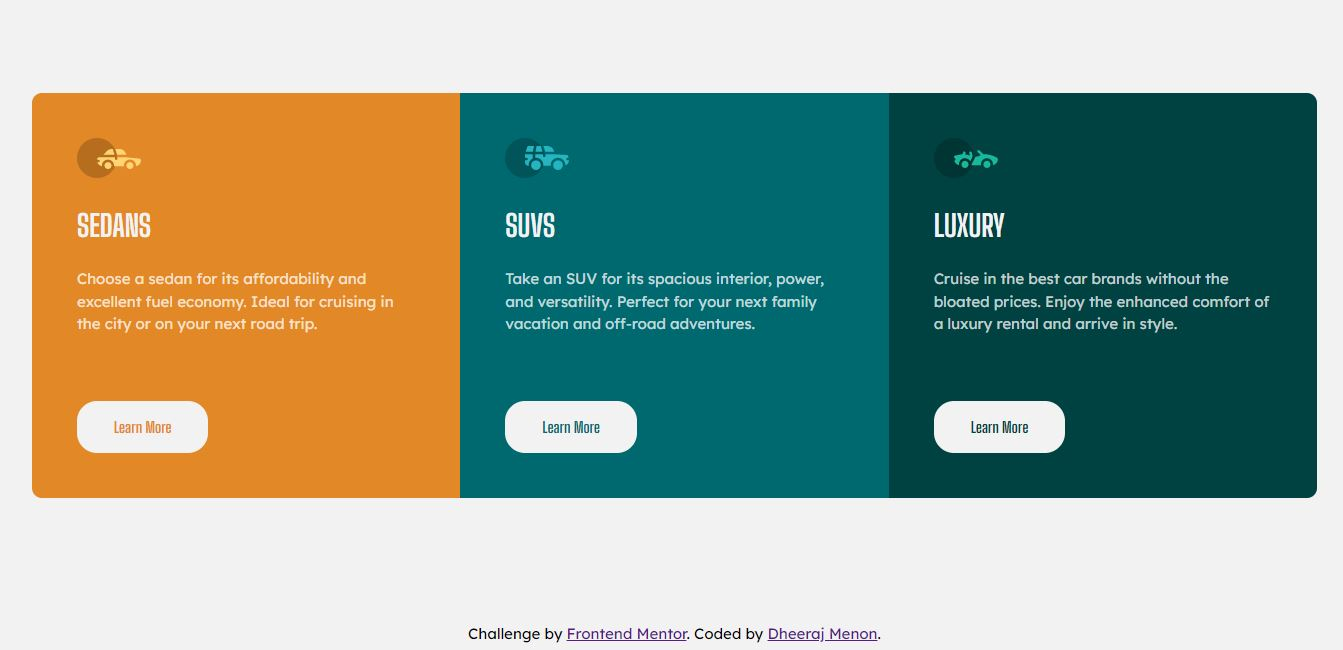
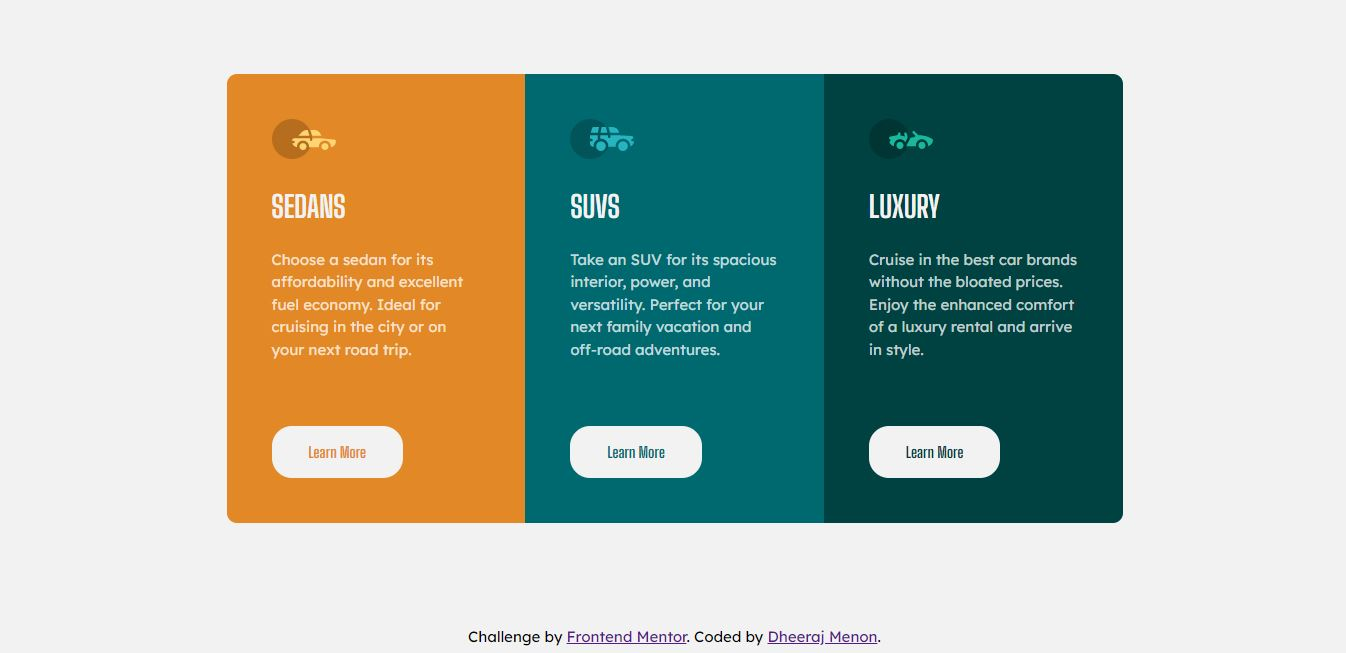
Fix card display

diff --git a/3col-preview-card-component/styles.css b/3col-preview-card-component/styles.css
@@ -17,7 +17,7 @@ body{
     display: flex;
     min-height: 100vh;
     align-items: center;
-    max-width: 100%;
+    max-width: 960px;
     margin: 0 auto;
 }
 
